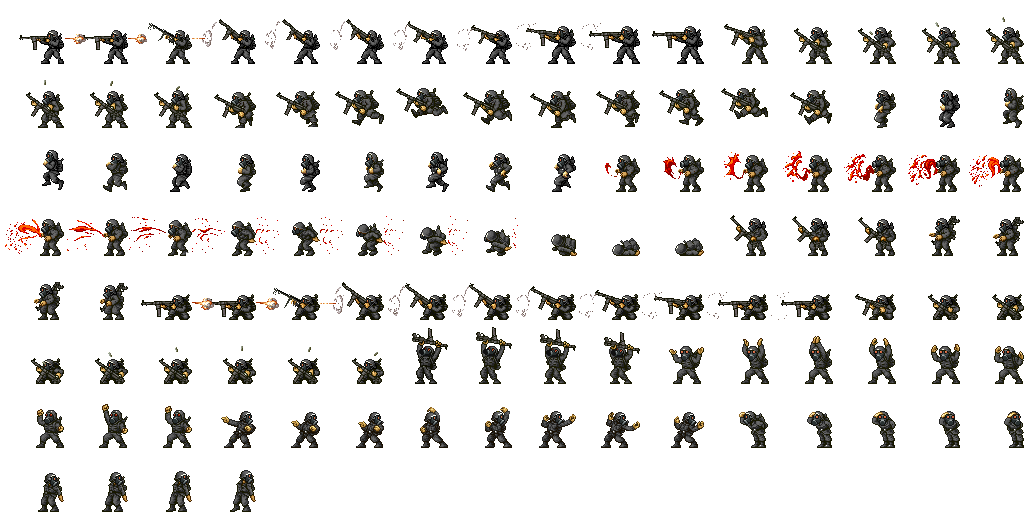
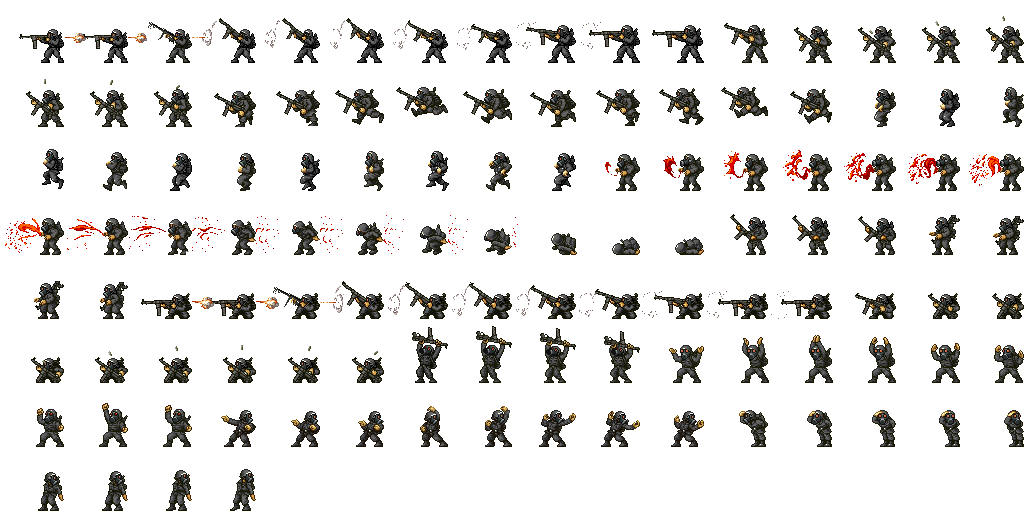
Fixed animations

diff --git a/js/game.js b/js/game.js
@@ -230,7 +230,8 @@ app.game =
 		app.log("app.game.loadContent() called");
 		
 		// Load character content
-		app.IMAGES["IMG_SOLDIER"] = new THREE.ImageUtils.loadTexture("./images/soldier64x64.png");
+		//app.IMAGES["IMG_SOLDIER"] = new THREE.ImageUtils.loadTexture("./images/soldier64x64.png");
+		app.IMAGES["IMG_SOLDIER"] = new THREE.ImageUtils.loadTexture("./images/soldier128x128.png");
 		app.IMAGES["IMG_SOLDIER"].wrapS = app.IMAGES["IMG_SOLDIER"].wrapT = THREE.RepeatWrapping;
 		
 		app.MATERIALS["MAT_CHARACTER_P0"] = new THREE.MeshPhongMaterial({color: this.mPlayer0Color, overdraw: true, map: app.IMAGES["IMG_SOLDIER"], transparent: true});
@@ -238,7 +239,8 @@ app.game =
 		app.MATERIALS["MAT_CHARACTER_P2"] = new THREE.MeshPhongMaterial({color: this.mPlayer2Color, overdraw: true, map: app.IMAGES["IMG_SOLDIER"], transparent: true});
 		app.MATERIALS["MAT_CHARACTER_P3"] = new THREE.MeshPhongMaterial({color: this.mPlayer3Color, overdraw: true, map: app.IMAGES["IMG_SOLDIER"], transparent: true});
 		
-		this.mCharacterAnimator = new app.animator(8, 16, 64, 64, 1024 / 512);
+		//this.mCharacterAnimator = new app.animator(8, 16, 64, 64, 1024 / 512);
+		this.mCharacterAnimator = new app.animator(16, 8, 128, 128, 1024 / 2048);
 											// Animation Index				// Start	// End		// Time		// Looping?			
 		this.mCharacterAnimator.addAnimation(app.character.State.IDLE, 		59, 		61, 		0.075, 		true);
 		this.mCharacterAnimator.addAnimation(app.character.State.AIDLE, 	59, 		61, 		0.075, 		true);

diff --git a/js/character.js b/js/character.js
@@ -15,7 +15,7 @@ app.character = function()
 		this.mDestination 	= new THREE.Vector3(0,app.game.mCharHeight / 2.0,0);
 		this.mTarget 		= undefined;
 		this.mAttackRadius	= 200.0;
-		this.mAttackDamage	= 40.0;
+		this.mAttackDamage	= 20.0;
 		this.mAttackRate	= 4.0;
 		this.mLastAttack	= 0.0;
 		this.mMesh 			= undefined;
@@ -108,14 +108,14 @@ app.character = function()
 			if(vdist >= ddist)
 			{
 				this.mMesh.position.x = this.mDestination.x;
-				this.mMesh.position.y = app.game.mCharHeight/2;
+				//this.mMesh.position.y = 0;
 				this.mMesh.position.z = this.mDestination.z;
 				this.setState(app.character.State.AIDLE);
 				return;
 			}
 
 			this.mMesh.position.x += diff.x;
-			this.mMesh.position.y = app.game.mCharHeight/2;
+			//this.mMesh.position.y = app.game.mCharHeight/2;
 			this.mMesh.position.z += diff.z;
 
 			if(this.mState == app.character.State.AMOVE)
@@ -222,6 +222,7 @@ app.character = function()
 	p.setDestination = function(x, z, amove)
 	{
 		this.mDestination.x = x;
+		this.mDestination.y = this.mMesh.position.y;
 		this.mDestination.z = z;
 		if(!amove)
 			this.setState(app.character.State.MOVE);

diff --git a/js/zone.js b/js/zone.js
@@ -142,7 +142,7 @@ app.zone = function()
 			app.MATERIALS["MAT_CHARACTER_P" + this.mOwner.mPlayerID]);
 		characterMesh.position = new THREE.Vector3(
 					this.mMesh.position.x - app.game.mZoneWidth / 2 + Math.random() * app.game.mZoneWidth,	
-					app.game.mCharHeight/2,
+					-1, //0, //app.game.mCharHeight/2,
 					this.mMesh.position.z - app.game.mZoneDepth / 2 + Math.random() * app.game.mZoneDepth);
 		characterMesh.rotation.set(app.game.mCharTilt, 0, 3.14159 / 2.0);
 
